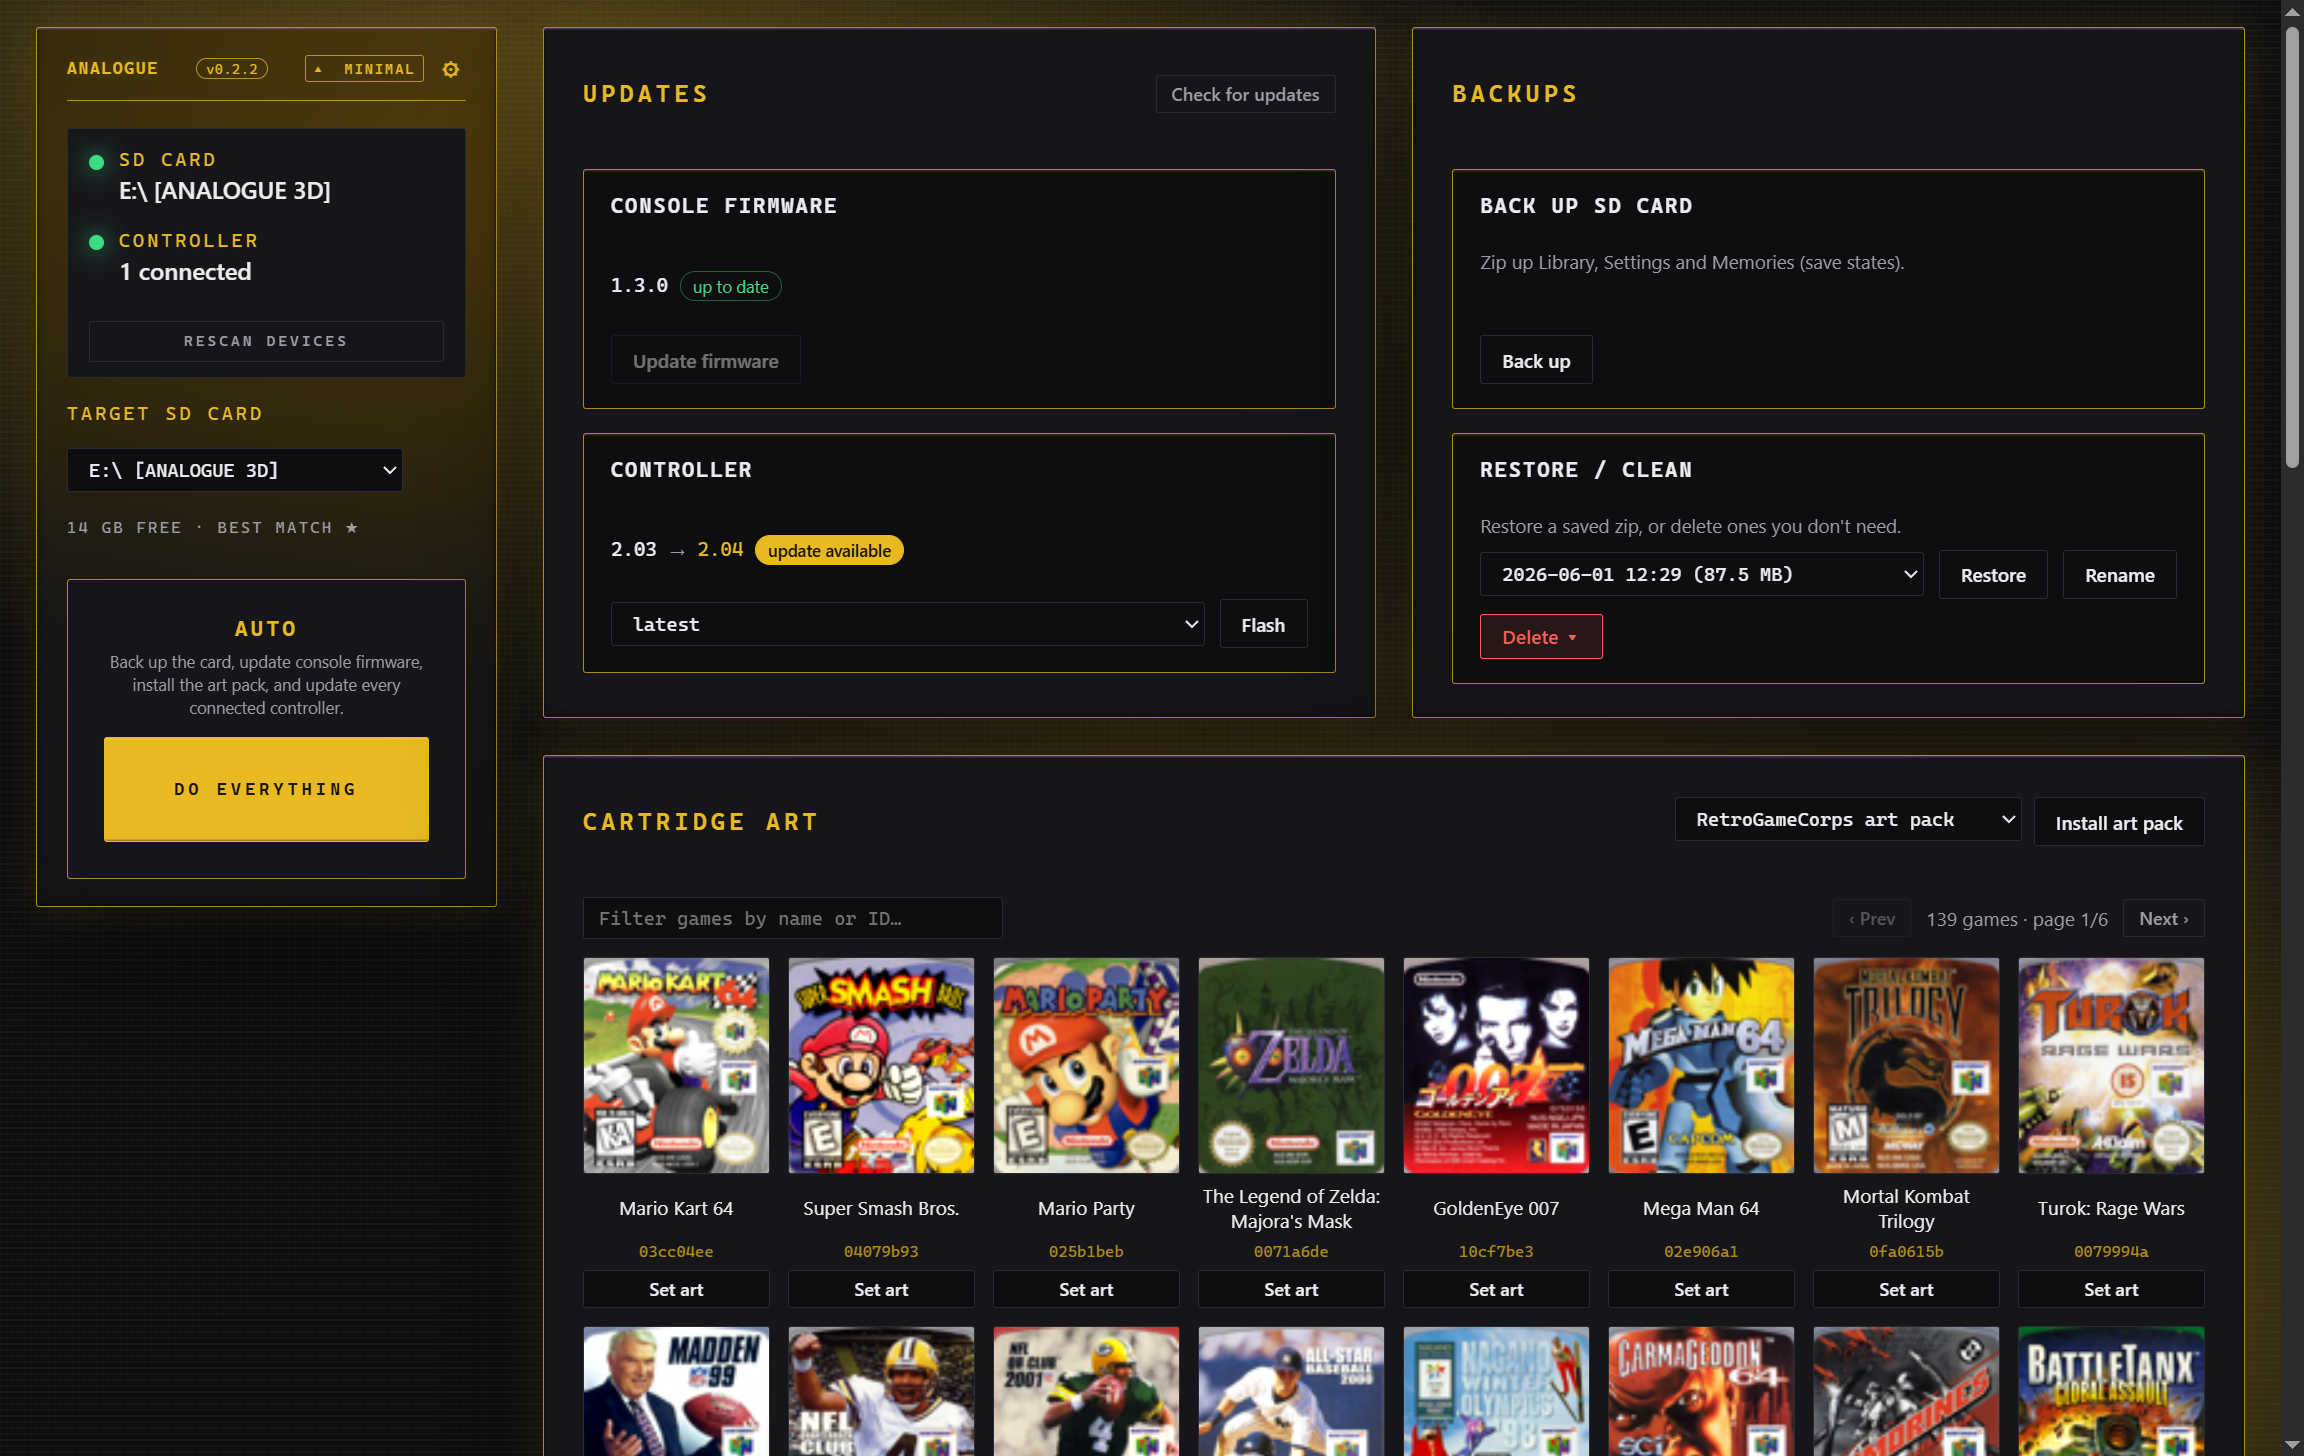
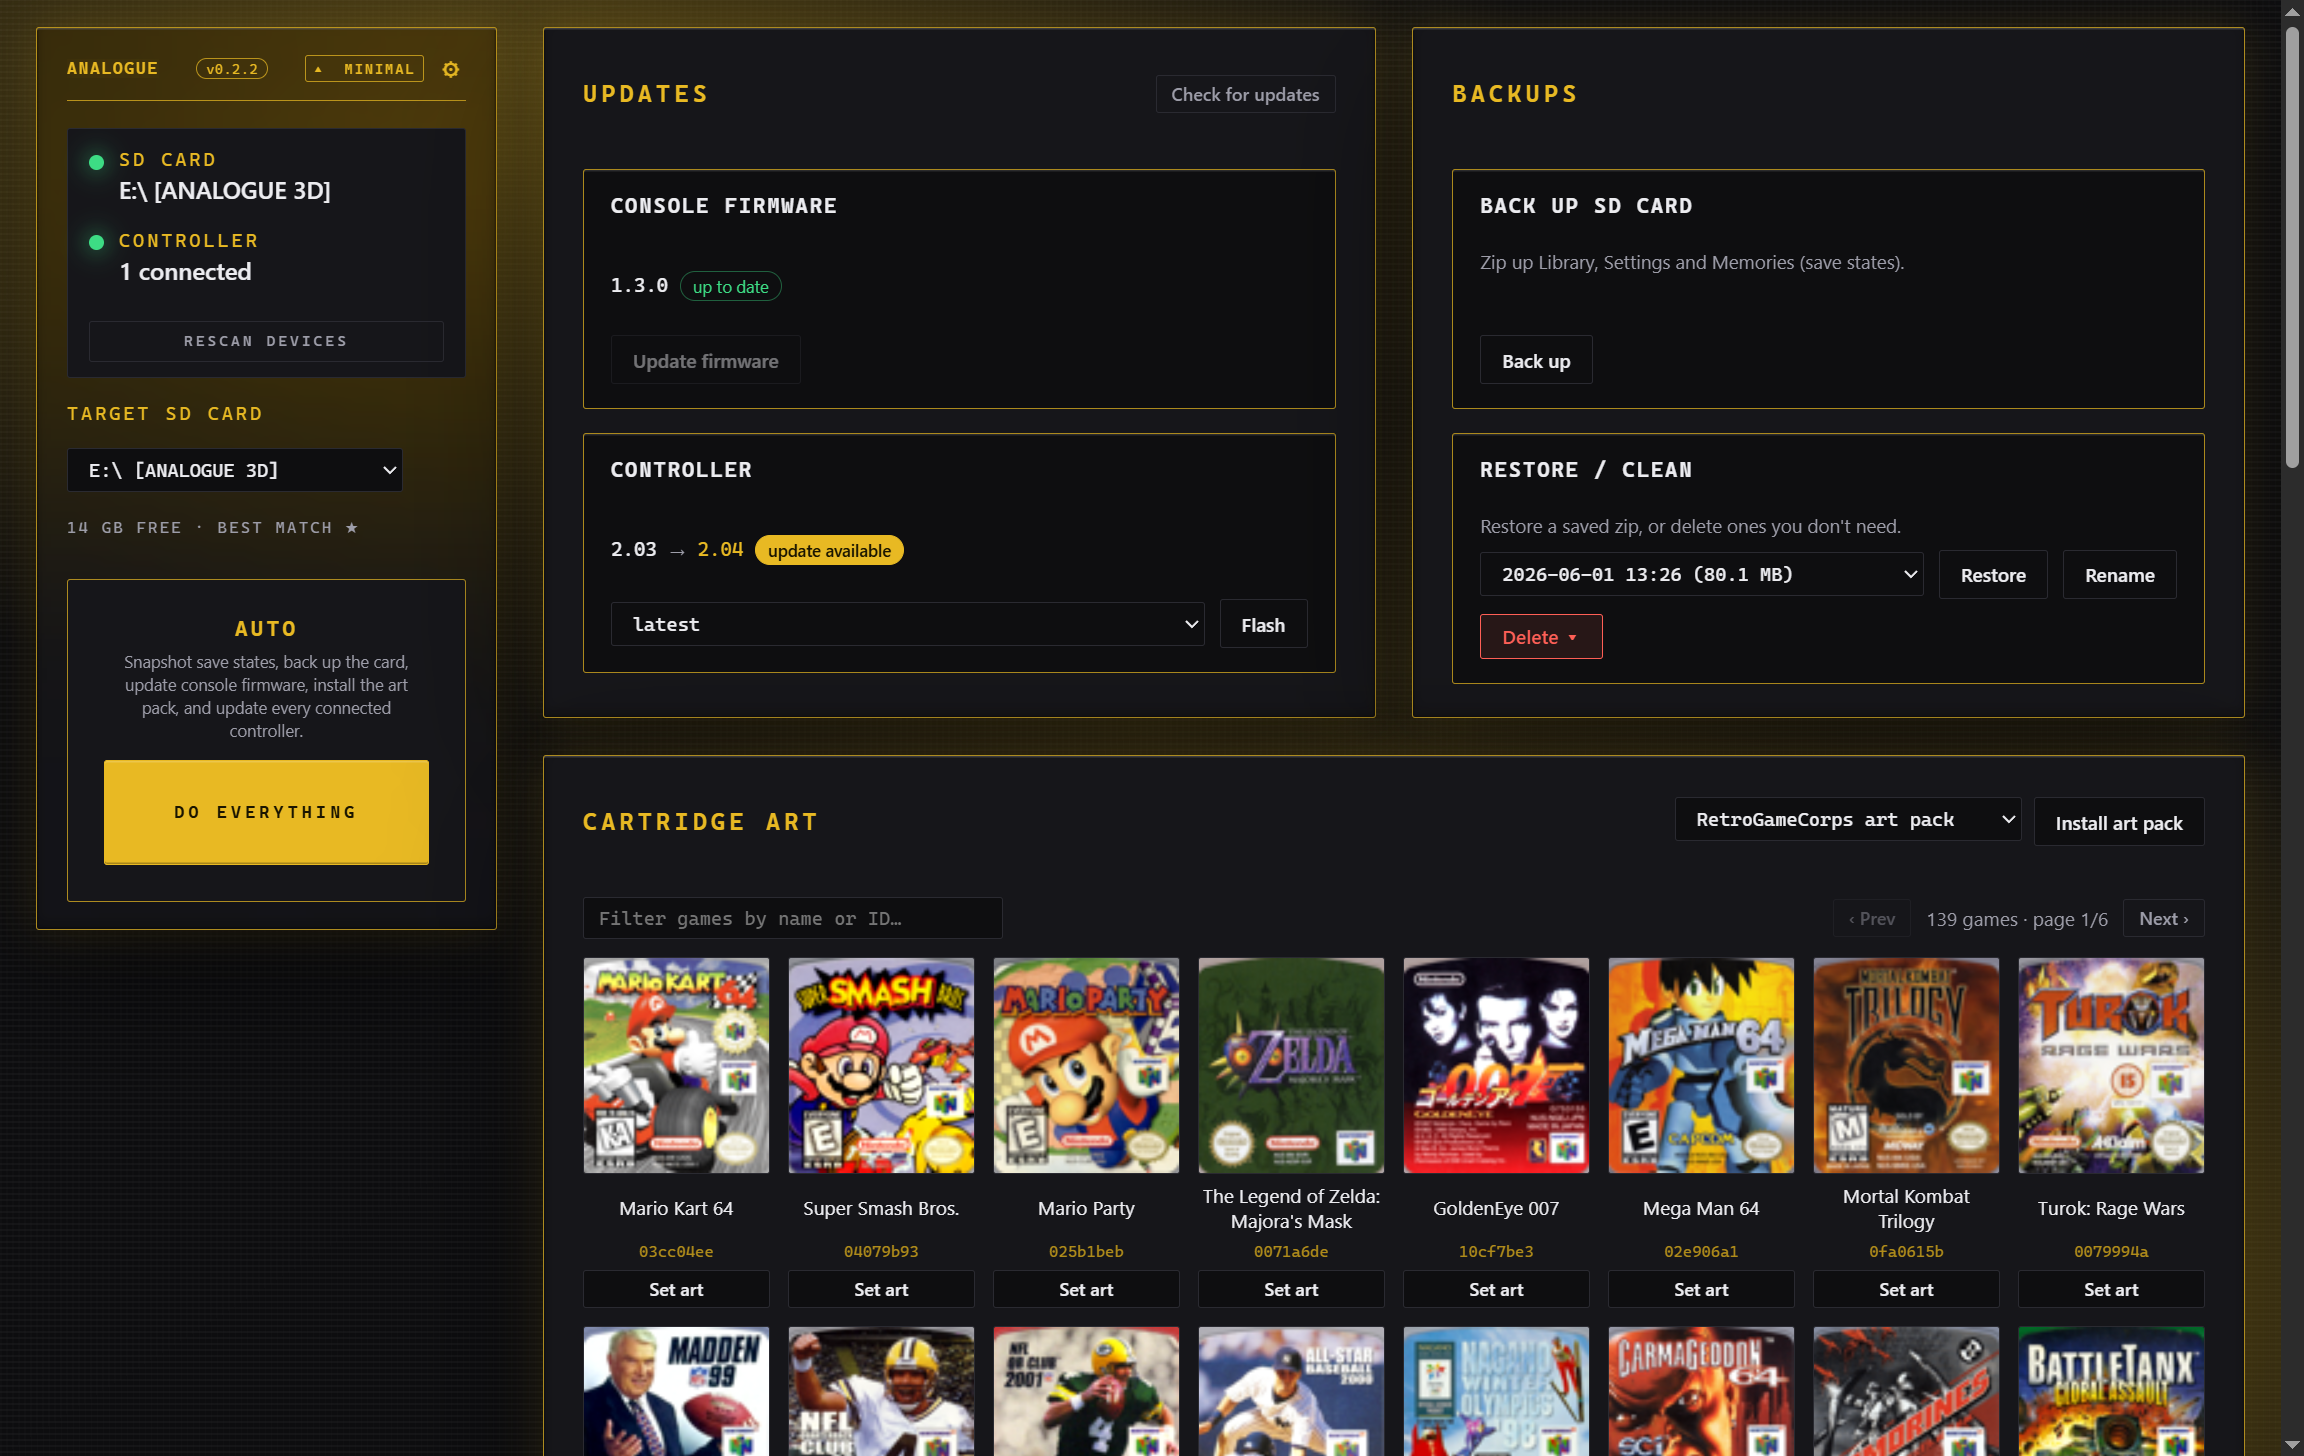
AUTO snapshots first; clarify backup vs snapshot menus; recapture shots
AUTO behavior
- New first step: snapshot save states (savestates.archive_all). The
  artifact lands in memory_backups/ as memories_*.zip — browsable in the
  Memories restore picker, restorable per-game, independent of the SD
  backup that follows. Skips cleanly when the card has no save states.
- AUTO is now 5 steps; both mode hero/subtitle copy lead with the
  snapshot.

Menu UX (why this turned up: I confused backups and snapshots myself)
- Each Delete dropdown now leads with a mono header — "SD card backups"
  or "Save-state snapshots" — so a user re-reading the danger menu can't
  conflate the two. They're physically isolated (different subdirs,
  different filename prefixes, double-filtered cleanup), but the labels
  were doing damage.
- Rename Memories "Archive all" → "Snapshot save states" so the button
  matches the AUTO step name and the dropdown's vocabulary.

Menu stacking
- Funtastic mode's backdrop-filter on every .block creates a per-panel
  stacking context, so an open dropdown's overflow could be painted over
  by the next block (BACKUPS Delete → CART ART). Adding .menu-open on
  the parent .block while a menu is up lifts that block's z-index above
  siblings; class is removed on close (click-elsewhere AND Escape).

Screenshots recaptured against this UI (Tinker + Minimal + Save states).

Changed region(s): [[0.0312, 0.4327, 0.1875, 0.6181]]

diff --git a/web/index.html b/web/index.html
@@ -118,7 +118,7 @@
         </div>
 
         <button class="primary big-auto" data-action="auto" id="minAutoBtn">Do everything &nbsp;&rsaquo;</button>
-        <p class="big-auto-sub">Backs up the card, updates console firmware, installs the art pack, and updates every connected controller.</p>
+        <p class="big-auto-sub">Snapshots save states, backs up the card, updates console firmware, installs the art pack, and updates every connected controller.</p>
       </div>
     </section>
 
@@ -173,7 +173,7 @@
     <section class="hero" id="autoCard">
       <div class="hero-text">
         <h2>Auto</h2>
-        <p>Back up the card, update console firmware, install the art pack, and update every connected controller.</p>
+        <p>Snapshot save states, back up the card, update console firmware, install the art pack, and update every connected controller.</p>
       </div>
       <button class="primary" data-action="auto">Do everything</button>
     </section>
@@ -224,6 +224,7 @@
             <div class="menu-wrap">
               <button class="action danger menu-btn" title="Delete options">Delete&nbsp;&#9662;</button>
               <div class="menu hidden">
+                <div class="menu-header">SD card backups</div>
                 <button class="menu-item danger" data-action="deleteBackup">Delete this backup</button>
                 <button class="menu-item danger" data-action="cleanBackups">Delete all but the latest</button>
               </div>
@@ -263,7 +264,7 @@
       <div class="section-head">
         <h2>Save states <span class="muted">/ Memories</span></h2>
         <div class="row-tools">
-          <button class="action" data-action="archiveMem">Archive all</button>
+          <button class="action" data-action="archiveMem">Snapshot save states</button>
           <button class="ghost sm" id="memRefresh">Refresh</button>
         </div>
       </div>
@@ -291,6 +292,7 @@
           <div class="menu-wrap">
             <button class="action danger menu-btn" title="Delete options">Delete&nbsp;&#9662;</button>
             <div class="menu hidden">
+              <div class="menu-header">Save-state snapshots</div>
               <button class="menu-item danger" data-action="deleteSnapshot">Delete this snapshot</button>
               <button class="menu-item danger" data-action="cleanSnapshots">Delete all but the latest</button>
             </div>

diff --git a/web/app.js b/web/app.js
@@ -1233,7 +1233,10 @@ function init() {
   document.querySelectorAll("[data-action]").forEach((btn) => {
     btn.addEventListener("click", () => handlers[btn.dataset.action]());
   });
-  // kebab menus: toggle on the button, close on any other click
+  // kebab menus: toggle on the button, close on any other click. Each panel
+  // (.block) creates its own stacking context in Funtastic mode (backdrop-
+  // filter), so an open menu would be painted over by a sibling block;
+  // .menu-open on the parent block raises its z-index above siblings.
   document.addEventListener("click", (e) => {
     const menuBtn = e.target.closest(".menu-btn");
     let toOpen = null;
@@ -1242,7 +1245,12 @@ function init() {
       if (menu && menu.classList.contains("hidden")) toOpen = menu;
     }
     document.querySelectorAll(".menu:not(.hidden)").forEach((m) => m.classList.add("hidden"));
-    if (toOpen) toOpen.classList.remove("hidden");
+    document.querySelectorAll(".block.menu-open").forEach((b) => b.classList.remove("menu-open"));
+    if (toOpen) {
+      toOpen.classList.remove("hidden");
+      const block = toOpen.closest(".block");
+      if (block) block.classList.add("menu-open");
+    }
   });
   $("refreshBtn").addEventListener("click", refresh);
   const minRefresh = $("minRefreshBtn");
@@ -1263,6 +1271,7 @@ function init() {
   document.addEventListener("keydown", (e) => {
     if (e.key === "Escape") {
       document.querySelectorAll(".menu:not(.hidden)").forEach((m) => m.classList.add("hidden"));
+      document.querySelectorAll(".block.menu-open").forEach((b) => b.classList.remove("menu-open"));
       if ($("modal").classList.contains("hidden")) closeSettings();
     }
   });

diff --git a/web/style.css b/web/style.css
@@ -203,6 +203,10 @@ select:focus, input[type=text]:focus { border-color: var(--gold-dim); }
 
 /* ---------- blocks / sections ---------- */
 .block { display: flex; flex-direction: column; gap: 12px; }
+/* When a dropdown menu opens inside a block, lift the block above its siblings
+   so the menu's overflow isn't painted over by a later block's stacking
+   context (Funtastic mode gives every .block its own context via backdrop-filter). */
+.block.menu-open { position: relative; z-index: 20; }
 .grid2 { display: grid; grid-template-columns: 1fr 1fr; gap: 14px; }
 /* Inner cards inside UPDATES/BACKUPS blocks share a baseline height so the
    left-block inner card aligns with the right-block inner card across the
@@ -410,6 +414,11 @@ button:disabled { opacity: .45; cursor: not-allowed; }
   background: var(--panel-2); border: 1px solid var(--border);
   border-radius: 2px; box-shadow: 0 10px 28px rgba(0, 0, 0, .55);
   display: flex; flex-direction: column; gap: 2px;
+}
+.menu-header {
+  font-family: var(--mono); font-size: var(--fs-meta-mono);
+  letter-spacing: 0.125em; text-transform: uppercase; color: var(--dim);
+  padding: 4px 10px 6px; border-bottom: 1px solid var(--border); margin-bottom: 4px;
 }
 .menu-item {
   text-align: left; background: transparent; border: none; color: var(--text);

diff --git a/api.py b/api.py
@@ -429,35 +429,49 @@ class Api:
 
     def auto(self, root):
         def task():
-            steps = ["Back up SD card (incl. save states)", "Update console firmware",
+            steps = ["Snapshot save states", "Back up SD card", "Update console firmware",
                      "Install cartridge art pack", "Update controllers"]
             self._steps_init(steps)
-            print("=== Auto: backup -> firmware -> art pack -> controllers ===")
+            print("=== Auto: snapshot -> backup -> firmware -> art pack -> controllers ===")
 
+            # Memories snapshot first — fast, browsable in the Memories restore
+            # picker, and survives even if a later step fails. The SD backup
+            # below also zips Memories, but as part of a full-card archive
+            # rather than a per-save-state snapshot the user can selectively
+            # restore from.
             self._step(0, "active")
-            sdcard.create_backup(root, progress=self._backup_progress_cb())
-            self._step(0, "done")
+            snap_path, n = savestates.archive_all(root)
+            if snap_path:
+                self._step_note(0, f"{n} states")
+                self._step(0, "done")
+            else:
+                self._step(0, "skip")
+                print("No save states on this card to snapshot.")
 
             self._step(1, "active")
+            sdcard.create_backup(root, progress=self._backup_progress_cb())
+            self._step(1, "done")
+
+            self._step(2, "active")
             ok = sdcard.install_firmware(root)
             if not ok:
                 print("Firmware step did not complete.")
-            self._step(1, "done" if ok else "fail")
+            self._step(2, "done" if ok else "fail")
 
-            self._step(2, "active")
+            self._step(3, "active")
             sdcard.install_labels(root, labels.custom_pack_path() if labels.has_custom_pack() else None)
-            self._step(2, "done")
+            self._step(3, "done")
 
             n = controller.connected_count()
             if n:
-                self._step(3, "active")
-                self._step_note(3, f"{n} connected")
+                self._step(4, "active")
+                self._step_note(4, f"{n} connected")
                 controller.update_all(progress=self._progress_cb(),
-                                      announce=self._flash_announce(n, step_index=3))
-                self._step(3, "done")
-                self._step_note(3, "")
+                                      announce=self._flash_announce(n, step_index=4))
+                self._step(4, "done")
+                self._step_note(4, "")
             else:
-                self._step(3, "skip")
+                self._step(4, "skip")
                 print("No controller connected - skipped.")
             print("\nAll done. Safely eject the card.")
         return _run(task)
